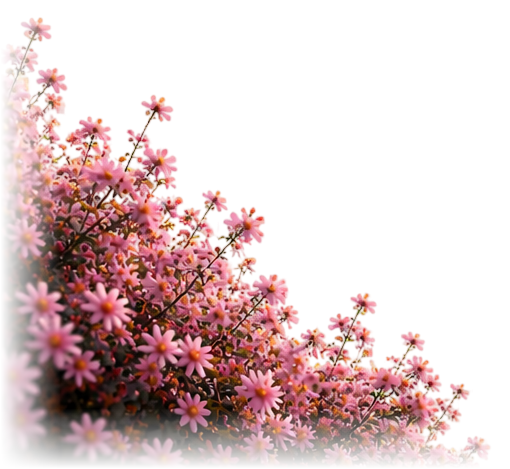
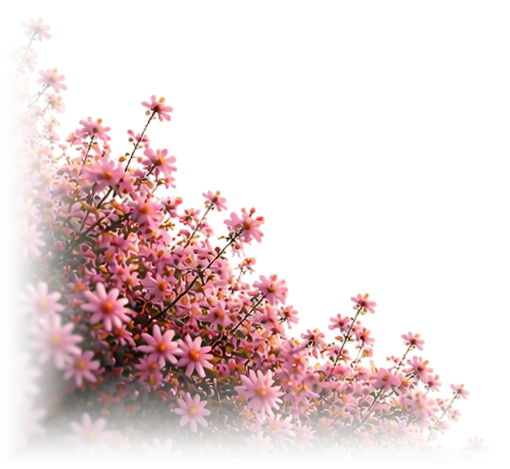
feat: enhance HeroSection with improved parallax speeds and responsive floral corner design

Changed region(s): [[0.0, 0.0299, 0.9706, 0.9851]]

diff --git a/frontend/components/HeroSection.tsx b/frontend/components/HeroSection.tsx
@@ -50,7 +50,7 @@ export default function HeroSection() {
     layerRefs.current = [layer0Ref.current, layer1Ref.current, layer2Ref.current];
 
     const layers = layerRefs.current.filter(Boolean);
-    const speeds = [0, 0.15, 0.25];
+    const speeds = [0, 0.22, 0.38];
 
     // gsap.context scopes all animations + ScrollTriggers created inside it,
     // so ctx.revert() only kills THIS section's effects.
@@ -68,11 +68,11 @@ export default function HeroSection() {
         });
       });
 
-      // Corner flowers share the front-most layer's scroll speed (0.35).
+      // Corner flowers move fastest on scroll (front-most depth layer).
       [flowerLeftRef.current, flowerRightRef.current].forEach((el) => {
         if (!el) return;
         gsap.to(el, {
-          yPercent: 0.35 * 100,
+          yPercent: 0.55 * 100,
           ease: "none",
           scrollTrigger: {
             trigger: sectionRef.current,
@@ -95,13 +95,13 @@ export default function HeroSection() {
   const { needsPermission, requestGyroPermission } = useParallax(
     sectionRef,
     [
-      { ref: layer0Ref, speedX: 0, speedY: 0 },      // sky:          fixed base
-      { ref: layer1Ref, speedX: -18, speedY: -14 },  // mountain:     slow drift
-      { ref: layer2Ref, speedX: -32, speedY: -24 },  // church:       moderate
-      { ref: flowerLeftRef, speedX: -50, speedY: -38 },   // flowers:  fastest (front)
-      { ref: flowerRightRef, speedX: -50, speedY: -38 },  // flowers:  fastest (front)
+      { ref: layer0Ref, speedX: 0, speedY: 0 },       // sky:          fixed base
+      { ref: layer1Ref, speedX: -28, speedY: -22 },   // mountain:     slow drift
+      { ref: layer2Ref, speedX: -48, speedY: -36 },   // church:       moderate
+      { ref: flowerLeftRef, speedX: -75, speedY: -58 },   // flowers:  fastest (front)
+      { ref: flowerRightRef, speedX: -75, speedY: -58 },  // flowers:  fastest (front)
     ],
-    { smoothing: 0.08 },
+    { smoothing: 0.07 },
   );
 
   const allLayerRefs = [layer0Ref, layer1Ref, layer2Ref];
@@ -115,19 +115,19 @@ export default function HeroSection() {
       {/* Parallax background layers.
           Each layer is intentionally oversized (negative inset) so that its
           edges stay hidden behind the viewport even at maximum parallax
-          displacement. Front layers move faster (up to 50px), so they get a
-          larger buffer. Percentage insets scale with viewport size so the
-          buffer always covers the fixed-pixel displacement. */}
+          displacement. Front layers move faster (cursor/gyro up to ~38px), so
+          they get a larger buffer. Percentage insets scale with viewport size
+          so the buffer always covers the fixed-pixel displacement. */}
       {heroImages.map((img, i) => (
         <div
           key={img.id}
           ref={allLayerRefs[i]}
           className={`hero-layer-${i} absolute`}
-          /* inset buffer per layer (must exceed max parallax offset):
-             layer 0: ~0px move  → -6%
-             layer 1: ~18px move → -8%
-             layer 2: ~32px move → -10% */
-          style={{ inset: `${-6 - i * 2}%` }}
+          /* inset buffer per layer (must exceed max cursor/gyro offset):
+             layer 0: ~0px move   → -8%
+             layer 1: ~14px move  → -11%
+             layer 2: ~24px move  → -14% */
+          style={{ inset: `${-8 - i * 3}%` }}
         >
           <Image
             src={img.src}

diff --git a/frontend/app/globals.css b/frontend/app/globals.css
@@ -136,19 +136,34 @@ body {
 
 /* Decorative floral corners (front-most, above background layers and dark
    overlay, below the hero text content at z-index 4). The right piece mirrors
-   the inner image (not the parallax wrapper) so GSAP transforms stay intact. */
+   the inner image (not the parallax wrapper) so GSAP transforms stay intact.
+   Responsive sizing: smaller on mobile, larger on desktop. The radial mask
+   is a safeguard that softens any residual canvas-edge against the hero. */
 .hero-corner-flower {
   position: absolute;
   bottom: 0;
-  width: clamp(180px, 28vw, 420px);
+  width: clamp(150px, 32vw, 420px);
   aspect-ratio: 4 / 3;
   z-index: 3;
   will-change: transform;
   pointer-events: none;
+  /* Soft edge fade so the image never reads as a hard rectangle, even
+     after the parallax wrapper is translated by GSAP. */
+  -webkit-mask: radial-gradient(140% 140% at 0% 100%, #000 55%, transparent 92%);
+          mask: radial-gradient(140% 140% at 0% 100%, #000 55%, transparent 92%);
 }
 .hero-corner-flower-left  { left: 0; }
 .hero-corner-flower-right { right: 0; }
 .hero-corner-flower-right img { transform: scaleX(-1); }
+
+/* On small screens, shrink the corners so they frame the hero without
+   crowding the title/date/card content. */
+@media (max-width: 640px) {
+  .hero-corner-flower {
+    width: clamp(110px, 38vw, 180px);
+    opacity: 0.92;
+  }
+}
 
 .hero-content {
   /* Responsive padding: less on mobile, more on desktop */